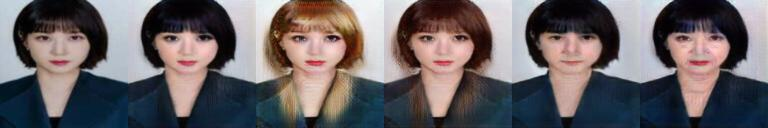
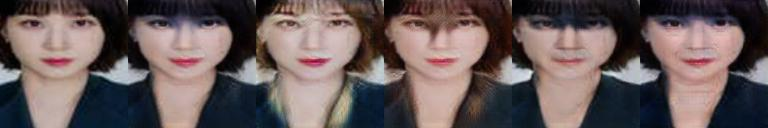
라디오 버튼 연동, 다운로드 구현

diff --git a/templates/ChangePeopleSelect.html b/templates/ChangePeopleSelect.html
@@ -20,11 +20,11 @@
 <div class = "main_box">
 	<div class="main_screen">
 		<div class="upper-content">
-		<form>
+		<form method = "post">
 			<div class="text-title">염색</div><br>
-			<label><input type="radio" name="face_expression" value = "2" onclick="drawImg(this)"> <img class = "imgs" src="{{url_for('static', filename = 'images/IU_1.png')}}"></label><br>
-			<label><input type="radio" name="face_expression" value = "3" onclick="drawImg(this)"> <img class = "imgs" src="{{url_for('static', filename = 'images/IU_2.png')}}"></label><br>
-			<label><input type="radio" name="face_expression" value = "4" onclick="drawImg(this)"> <img class = "imgs" src="{{url_for('static', filename = 'images/IU_3.png')}}"></label><br>
+			<label><input type="radio" name="face_expression" value = "1" onclick="drawImg(event)"> <img class = "imgs" src="{{url_for('static', filename = 'images/IU_1.png')}}"></label><br>
+			<label><input type="radio" name="face_expression" value = "2" onclick="drawImg(event)"> <img class = "imgs" src="{{url_for('static', filename = 'images/IU_2.png')}}"></label><br>
+			<label><input type="radio" name="face_expression" value = "3" onclick="drawImg(event)"> <img class = "imgs" src="{{url_for('static', filename = 'images/IU_3.png')}}"></label><br>
 		</form>
 		</div>
 	</div>
@@ -33,6 +33,7 @@
 
 <!--button class = "button_Bottom" id = "button_Bottom"><img class="button_Bottom_img" id="next-image"></button-->
 <div id = "button_Bottom">
+<!--input type="submit" value="전송" id="next-image"-->
 <img class="button_Bottom_img" id="next-image"></img>
 </div>
 </body>
@@ -49,14 +50,15 @@ window.onload = function() {
 	console.log(selectImage.src);
 }
 
-function drawImg(obj) {
+function drawImg(event) {
     var nextImage = document.getElementById("next-image");
 	var selectImage = document.getElementById("selectImg");
     nextImage.src = "{{url_for('static', filename = 'images/button_Bottom_img.png')}}";
 	
 	if(selectImage.src != null) {
 		nextImage.addEventListener("click", function() {
-			location.href='/run_model';
+			let hairOption = event.target.value;
+            window.location.href = "/run_model?option=" + hairOption;
 		});
 	}
 }

diff --git a/templates/result.html b/templates/result.html
@@ -24,13 +24,37 @@
 				</div>
 
 				<div class="b">
-				<img src="{{url_for('static', filename = 'images/input/imageTemp.jpg')}}" alt="My Image" height="300" width="230">
-				<img src="{{url_for('static', filename = 'images/right.png')}}" alt="My Image" height="300" width="130">
-				<img src="{{url_for('static', filename = 'images/result/1-images.jpg')}}" alt="My Image" height="300" width="230">
+					<img src="{{url_for('static', filename = 'images/result/imgOrigin.jpg')}}" alt="My Image" height="230" width="230">
+					<img src="{{url_for('static', filename = 'images/right.png')}}" alt="My Image" height="230" width="130">
+					<img src="{{url_for('static', filename = 'images/result/1-images.jpg')}}" alt="My Image" height="230" width="230" id="resultImg">
+				</div>
+				<br><br>
+				<div align="right">
+					<img src="{{url_for('static', filename = 'images/download.png')}}" alt="My Image" height="100" width="100" onclick="downloadImg()">
 				</div>
 			</body>
 		</div>
 	</div>
-
 </body>
 </html>
+
+<script>
+	window.onload = function() {
+		var result = document.getElementById("resultImg");
+		let getLink = window.location.search;
+		let getOption = getLink.split('=');
+		let getOnlyOption = getOption[1];
+		let decodeName = decodeURI(getOnlyOption)
+
+		if(decodeName=="1") result.src="{{url_for('static', filename = 'images/result/imgBlack.jpg')}}"
+		else if(decodeName=="2") result.src="{{url_for('static', filename = 'images/result/imgBlond.jpg')}}"
+		else if(decodeName=="3") result.src="{{url_for('static', filename = 'images/result/imgBrown.jpg')}}"
+	}
+	function downloadImg() {
+		var result = document.getElementById("resultImg");
+		var a = document.createElement('a');
+      	a.download = "imageTemp";
+      	a.href = result.src;
+      	a.click();
+	}
+</script>

diff --git a/StarGAN/solver.py b/StarGAN/solver.py
@@ -2,6 +2,7 @@ from StarGAN.model import Generator
 from StarGAN.model import Discriminator
 from torch.autograd import Variable
 from torchvision.utils import save_image
+from PIL import Image
 import torch
 import torch.nn.functional as F
 import numpy as np
@@ -547,6 +548,15 @@ class Solver(object):
                 x_concat = torch.cat(x_fake_list, dim=3)
                 result_path = os.path.join(self.result_dir, '{}-images.jpg'.format(i+1))
                 save_image(self.denorm(x_concat.data.cpu()), result_path, nrow=1, padding=0)
+                image = Image.open(self.result_dir+"/1-images.jpg")
+                imgOrigin=image.crop((128*0,0,128*1,128))
+                imgOrigin.save(self.result_dir+"/imgOrigin.jpg")
+                imgBlack=image.crop((128*1,0,128*2,128))
+                imgBlack.save(self.result_dir+"/imgBlack.jpg")
+                imgBlond=image.crop((128*2,0,128*3,128))
+                imgBlond.save(self.result_dir+"/imgBlond.jpg")
+                imgBrown=image.crop((128*3,0,128*4,128))
+                imgBrown.save(self.result_dir+"/imgBrown.jpg")
                 print('Saved real and fake images into {}...'.format(result_path))
 
     def test_multi(self):

diff --git a/app.py b/app.py
@@ -1,4 +1,5 @@
 import os #디렉토리 절대 경로
+import shutil
 from flask import Flask, render_template, jsonify, request, redirect
 
 #로그인, 회원가입 관련
@@ -20,6 +21,12 @@ app = Flask(__name__)
 ## HTML을 주는 부분
 @app.route('/')
 def MainSplash():
+   celeba_image_dir = 'static/images/input'
+   result_dir = 'static/images/result'
+   if os.path.exists(celeba_image_dir) :
+      shutil.rmtree(celeba_image_dir)
+   if os.path.exists(result_dir) :
+      shutil.rmtree(result_dir)
    return render_template('MainSplash.html')
 
 @app.route('/main')
